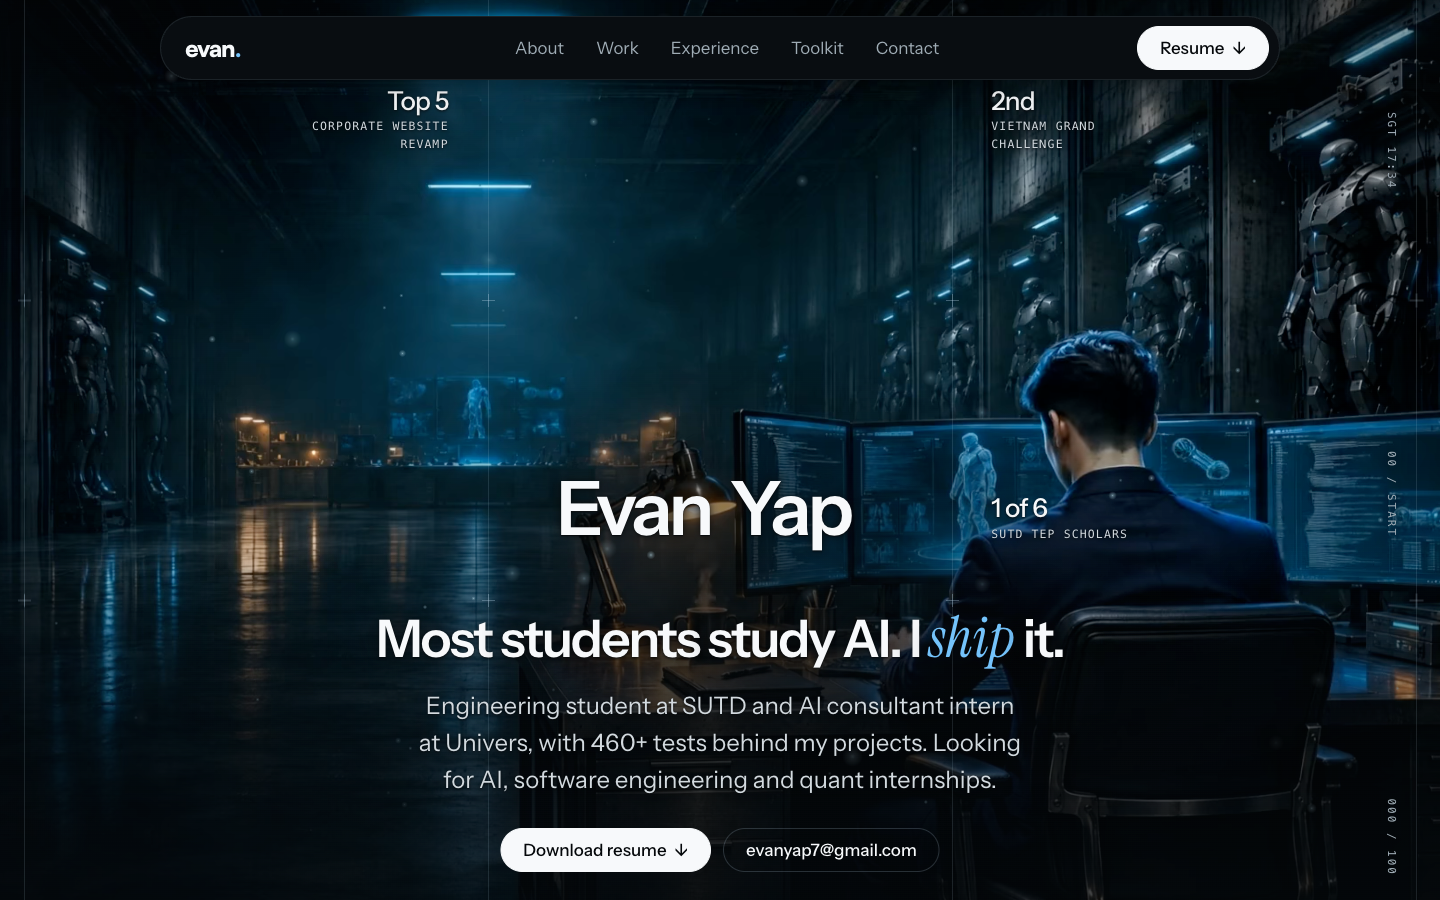
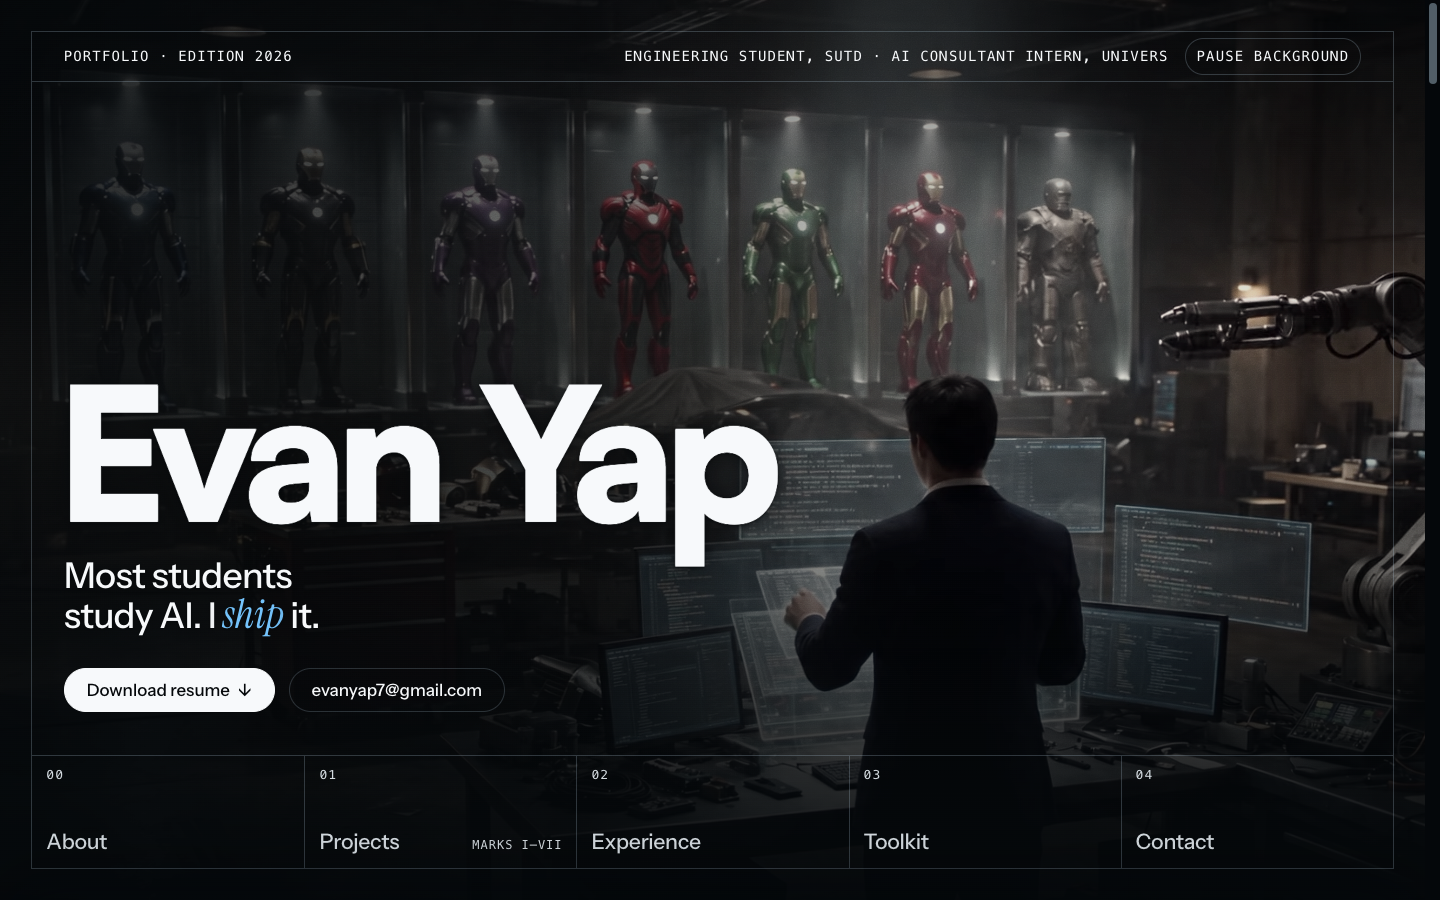
docs(readme): describe the Editions home page and the project write-ups

diff --git a/README.md b/README.md
@@ -2,21 +2,21 @@
 
 **Live:** <https://www.evanyap.com>
 
-The page is **Tony Stark's workshop**. A photograph of the room sits behind the whole page, one shot per section (Intro, About, Selected work, Experience, Toolkit, Contact), and scrolling brings each shot up over the last. The shots lean away from the pointer, a light follows it, and dust hangs in the air and parts round it. There is a page for each project. Plain HTML, CSS and JavaScript as ES modules: no framework and no build step. The only npm packages are dev tools for the checks. three.js and the fonts load from CDNs. With Reduce Motion on, the scene stays but holds still.
+An Iron Man themed portfolio, built as **Editions**: the home page is a deck of paper sheets that slide up over a dark hero. Projects are seven suits, one per project, each a 3D model you drag to turn. Every project has its own page, and four of them (E.G.O, the research agent, Parallel Match and the Univers revamp) carry a full write-up: overview, how it works, trade-offs, evidence with its limits, my part, stack and links. Plain HTML, CSS and JavaScript as ES modules: no framework and no build step. The only npm packages are dev tools for the checks. three.js and the fonts load from CDNs. With Reduce Motion on, the scene stays but holds still.
 
-![The hero: the workshop corridor with Evan at his desk, his name and headline over it](docs/hero.png)
+![The hero: the Hall of Armor behind Evan's name and headline, with the section rail along the bottom](docs/hero.png)
 
-![The Hall of Armor: a suit standing in the workshop, with its project beside it and the other suits to pick from](docs/hall.png)
+![The Projects chapter: a picker of seven projects, the project's name set huge behind its suit, and three figures](docs/projects.png)
 
 ## Highlights
 
-- **A workshop you scroll through.** Each section has its own photograph of the room, which pushes in slowly as the section passes; the hero's is a looping clip. The reactor on the first screen is the door: a first visit finds the room dark ("Systems offline"). Press and hold the reactor (or hold Space on it) and it charges; at 100% it fires a pulse and the room comes up. It never opens by itself, so the resume and email stay reachable throughout.
-- **A room that answers the pointer.** The shot leans away from it, a light follows it, the dust parts round it, and on About each hobby in the list lights its object in the photograph.
-- **Interactive 3D arc reactor** in three.js: powers on with a pulse, hold to charge, drag to spin, highlights follow the pointer.
-- **The Hall of Armor.** Selected work is seven Iron Man suits, each a 3D model you drag to turn, standing in the workshop beside the project it stands for.
+- **A deck of sheets.** The hero stays put while the next sheet covers it and darkens it a little. The suit and its figures drift at their own rates. On a phone nothing floats: the opener keeps only the picker, the name and the suit, because the sheet right below repeats the figures.
+- **Seven suits, seven projects.** Pick a project and the suit assembles from the code that draws it, then stands there to drag or turn with the arrow keys. A plain list of every project sits below the picker for browsers without it, and for crawlers.
+- **A case study per project.** Claims are limited to what the repos show, and each page says what its numbers do not prove (a self-written eval set, synthetic data, no accuracy claim).
+- **The reactor is the door.** A first visit finds the room dark ("Systems offline"). Press and hold the reactor (or hold Space on it) and it charges; at 100% the room comes up. It never opens by itself, so the resume and email stay reachable throughout.
+- **A room that answers the pointer.** A shot per section that leans away from the cursor, a light that follows it and dust that parts round it.
 - **Looping project diagrams** drawn as inline SVG, played only while on screen, each with a pause button.
-- **Motion with restraint.** Word-by-word title reveals, counting figures, scroll-drawn timeline, cross-page view transitions. With Reduce Motion on, nothing moves.
-- **Tested in the browser.** [`/tests/`](tests/) loads the site at 13 sizes (320px to 1920px) and runs about 6,500 checks: section order, heading levels, no sideways scroll, 44px tap targets, WCAG contrast, focus rings, keyboard paths, the gate, the scene and the suits.
+- **Tested in the browser.** [`/tests/`](tests/) loads the site at 13 sizes (320px to 1920px) and runs about 6,600 checks: section order, heading levels, no sideways scroll, 44px tap targets, WCAG contrast, focus rings, keyboard paths, the gate, the scene, the picker and the project pages. It also runs with Reduce Motion on and with three.js blocked.
 
 ## How it was built
 
@@ -37,18 +37,19 @@ npm run check:browser            # the full headless-Chrome suite, about 8 minut
 
 | Path | Holds |
 | --- | --- |
-| `index.html` | Main page: hero, About, Experience, Selected work, Toolkit, Contact |
+| `index.html` | Main page: hero, About, Projects, Experience, Toolkit, Contact |
 | `work/`, `case-studies/` | One page per project, and the trading agent case study |
-| `css/` | `base.css` (tokens), `layout.css`, `home.css`, `project.css`, `figures.css`, `reactor.css` |
+| `css/` | `base.css` (tokens), `layout.css`, `home.css`, `editions.css` (the sheets and the Projects opener), `project.css` (project pages and the write-up styles), `figures.css`, `reactor.css`, `lab.css` |
 | `js/` | `main.js` starts everything; `reactor*.js` the hero's 3D model; `gate.js`, `motion.js`, `reel.js` + `scenes.js` (diagram player) |
 | `js/lab.js`, `js/scene-gl.js`, `img/scene/` | The scene: a shot per section with its depth map, drawn in depth (the camera's lean, push and travel, the reactor's light), About's spots, and the door |
-| `js/hall*.js`, `models/hall/` | The Hall of Armor: the suit picker, its stage and the suit models |
+| `js/marks.js`, `js/projects.js`, `js/deck.js` | The seven projects' data, the picker, and the sheets covering the hero |
+| `js/suit.js`, `js/hall-*.js`, `models/hall/` | The live suit (code that forms into a 3D model) and the suit models |
 | `img/`, `resume/` | Icons, logos, share image, resume PDF |
 
 ## Maintaining it
 
 - **Email:** change `CONTACT_EMAIL` in `js/config.js`; every link and the copy button read from it.
-- **Add a project:** copy a page in `work/`, add a card to `ul.work__grid` in `index.html`, fix the "Next project" loop, list it in `sitemap.xml`, and add it to `PAGES` and `CARDS` in `tests/`.
+- **Add a project:** copy a page in `work/`, add a Mark to `js/marks.js` and a card to `ul.work__grid` in `index.html`, fix the "Next project" loop, list it in `sitemap.xml`, and add it to `PAGES` in `tests/run.js`.
 - **Resume:** replace `resume/Evan-Yap-Resume.pdf`, with the phone number removed from the file itself (covering it with a box is not enough).
 - **Share image:** recapture `img/og.jpg` (1200 x 630) if the hero changes.
 - **Design:** one hue (`--h`, arc blue) tints the whole palette; tokens live at the top of `css/base.css`. Type is Instrument Sans, Instrument Serif (italic accents) and Satoshi (the wordmark); code and HUD labels use the system monospace.
